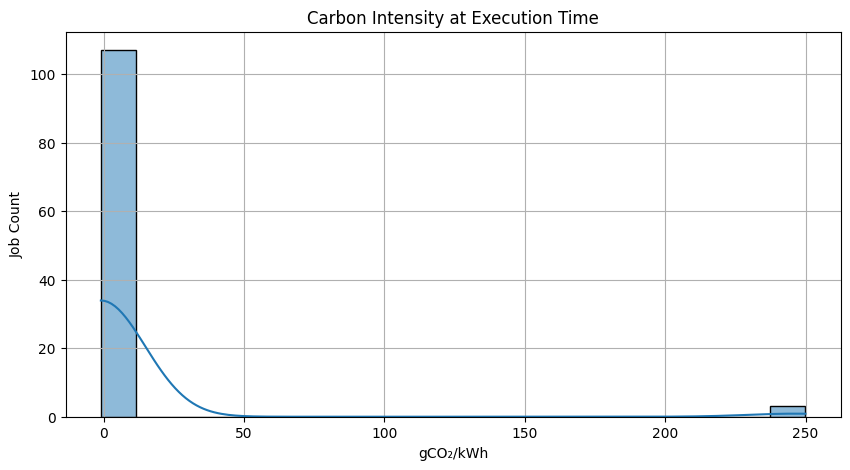
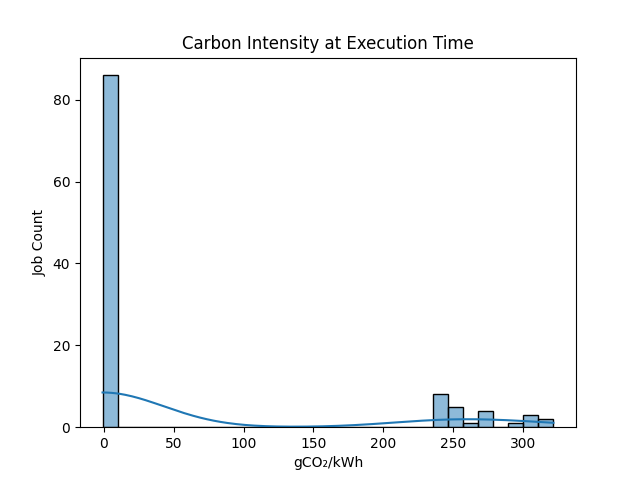
Add utility functions for generating various plots related to job emissions and delays
- Created a new module `plot_generator.py` in the `utils` directory.
- Implemented a function `generate_all_plots` to generate and save multiple plots:
  - CO2 emissions comparison between baseline and scheduled jobs.
  - Distribution of carbon intensity at execution time.
  - Job delay distribution.
  - Energy source breakdown in a pie chart.
  - Job execution timeline with scheduled time and job IDs.
  - Job execution delay categorized by energy source.
- Plots are saved in a specified output directory.

diff --git a/src/utils/plot_generator.py b/src/utils/plot_generator.py
@@ -1,0 +1,64 @@
+import pandas as pd
+import matplotlib.pyplot as plt
+import seaborn as sns
+import os
+
+def generate_all_plots(result_df: pd.DataFrame, jobs_df: pd.DataFrame, carbon_df: pd.DataFrame, output_dir="plots"):
+    os.makedirs(output_dir, exist_ok=True)
+
+    # 1. CO2 Baseline vs Scheduled
+    baseline_emissions = (jobs_df["baseline_carbon"] * jobs_df["expected_power_kwh"]).sum()
+    scheduled_emissions = (result_df["carbon_intensity"].clip(lower=0) * result_df["power_kwh"]).sum()
+    plt.figure()
+    plt.bar(["Baseline", "Scheduled"], [baseline_emissions, scheduled_emissions], color=["#69b3a2", "#e9967a"])
+    plt.ylabel("kg CO₂")
+    plt.title("CO₂ Emissions: Baseline vs Scheduled")
+    plt.savefig(os.path.join(output_dir, "Co2_Baseline_vs_Scheduled.png"))
+    plt.close()
+
+    # 2. Carbon Intensity Distribution
+    plt.figure()
+    sns.histplot(result_df["carbon_intensity"], kde=True, bins=30)
+    plt.title("Carbon Intensity at Execution Time")
+    plt.xlabel("gCO₂/kWh")
+    plt.ylabel("Job Count")
+    plt.savefig(os.path.join(output_dir, "carbon_intensity.png"))
+    plt.close()
+
+    # 3. Job Delay Distribution
+    plt.figure()
+    result_df["delay_hours"].value_counts().sort_index().plot(kind="bar")
+    plt.title("Job Delay Distribution")
+    plt.xlabel("Delay (hours)")
+    plt.ylabel("Number of Jobs")
+    plt.savefig(os.path.join(output_dir, "job_delay_distribution.png"))
+    plt.close()
+
+    # 4. Energy Source Breakdown
+    plt.figure()
+    source_counts = result_df["source"].value_counts()
+    source_counts.plot(kind="pie", autopct='%1.1f%%', startangle=90, colors=["#ff9999", "#66b3ff"])
+    plt.title("Energy Source Breakdown")
+    plt.ylabel("")  # Hide the y-label for pie chart
+    plt.savefig(os.path.join(output_dir, "energy_source_breakdown.png"))
+    plt.close()
+    # 5. Job  Execution Timeline
+    plt.figure(figsize=(12, 6))
+    sns.scatterplot(data=result_df, x="scheduled_time", y="job_id", hue="source", style="source", s=100)
+    plt.title("Job Execution Timeline")
+    plt.xlabel("Scheduled Time")
+    plt.ylabel("Job ID")
+    plt.xticks(rotation=45)
+    plt.legend(title="Energy Source")
+    plt.savefig(os.path.join(output_dir, "job_timeline.png"))
+    plt.close()
+    # 6. Job Execution Delay   
+    plt.figure(figsize=(12, 6))
+    sns.barplot(data=result_df, x="job_id", y="delay_hours", hue="source", palette=["#ff9999", "#66b3ff"])
+    plt.title("Job Execution Delay by Source")
+    plt.xlabel("Job ID")
+    plt.ylabel("Delay (hours)")
+    plt.xticks(rotation=45)
+    plt.legend(title="Energy Source")
+    plt.savefig(os.path.join(output_dir, "job_execution_delay.png"))
+    plt.close()

diff --git a/dashboard/streamlit_app.py b/dashboard/streamlit_app.py
@@ -7,6 +7,7 @@ import sys
 sys.path.append(os.path.abspath(os.path.join(os.path.dirname(__file__), "..")))
 
 from src.scheduler import scheduler as sched
+from src.utils.plot_generator import generate_all_plots
 
 st.set_page_config(page_title="Green AI Scheduler", layout="wide")
 
@@ -55,6 +56,11 @@ if st.sidebar.button("Run Scheduler"):
 
     delayed_pct = (result_df["delay_hours"] > 0).mean() * 100
 
+    # 📈 Generate fresh plots
+    generate_all_plots(result_df, jobs_df, carbon_df, output_dir="plots")
+    st.success("Plots generated successfully!")
+
+# ---------------- Display Results ----------------
     st.subheader("Metrics")
     col1, col2, col3 = st.columns(3)
     col1.metric("Total Jobs", len(result_df))
